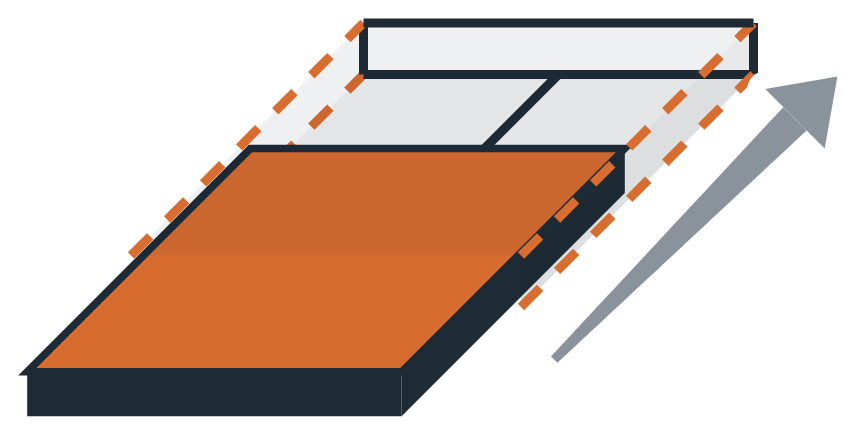
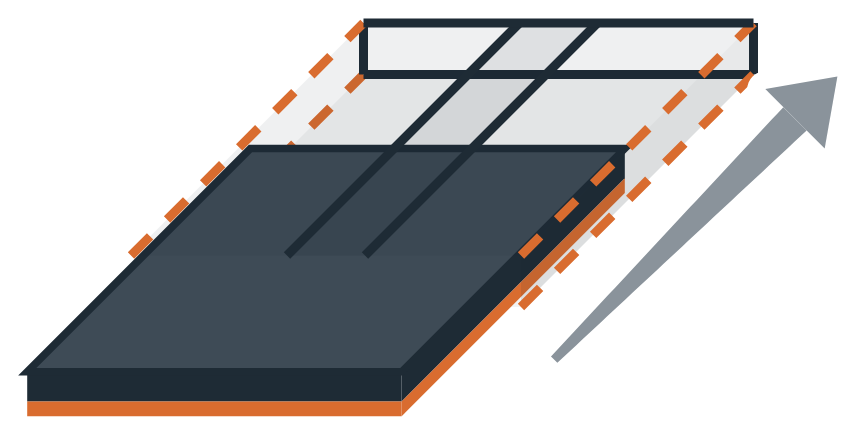
Guide de la codification : etui volets dessus, tesselle visuel dessous (comme la notice)

Changed region(s): [[0.0304, 0.0598, 0.729, 0.9563], [0.5467, 0.0598, 0.6075, 0.1793]]

diff --git a/quadreti-guide-codification.html b/quadreti-guide-codification.html
@@ -275,7 +275,7 @@ body.qz-guide-codif{
       </li>
       <li>
         <figure class="cdf-papier">
-          <img src="img/codification-enfilez-etui.png" width="285" height="145" alt="Le visuel posé sur la tesselle glisse dans l’étui par son ouverture" loading="lazy">
+          <img src="img/codification-enfilez-etui.png" width="285" height="145" alt="La tesselle, visuel dessous, glisse dans l’étui par son ouverture, volets dessus" loading="lazy">
         </figure>
         <h3><span class="cdf-num">3</span>Enfilez l’étui</h3>
         <p>visuel et tesselle ensemble</p>
